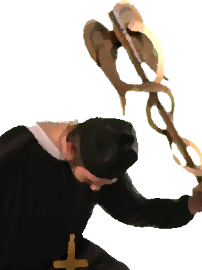
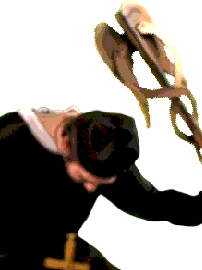
add(display): chara visual

diff --git a/js/game/display/fight/fightDisplay.js b/js/game/display/fight/fightDisplay.js
@@ -1,4 +1,4 @@
-class FightDisplay extends ActivityDisplay { }
+class FightDisplay extends ActivityDisplay {}
 FightDisplay.update = display => {
     var fight = display.game.activity;
 
@@ -82,6 +82,12 @@ FightDisplay.update = display => {
             }
 
             var drawCharacter = player => {
+
+                display.cx.save();
+                if (!player.direction) {
+                    display.flipHorizontally((player.collisionBox.pos.x + player.collisionBox.size.x / 2) * display.zoom);
+                }
+
                 switch (player.action) {
                     case "HIT":
                         display.cx.fillStyle = '#04ff';
@@ -114,7 +120,13 @@ FightDisplay.update = display => {
                         display.cx.fillStyle = '#d3f8b0';
                         break;
                     case "FORWARD_DASH":
-                        display.cx.fillStyle = '#f7ff00';
+                        display.cx.drawImage(display.assets.c00df,
+                            0, 0,
+                            182, 192,
+                            (player.collisionBox.pos.x + player.collisionBox.size.x / 2 - 91) * display.zoom,
+                            -80 + (player.collisionBox.pos.y + player.collisionBox.size.y / 2 - 96) * display.zoom,
+                            182 * display.zoom, 192 * display.zoom
+                        );
                         break;
                     case "BACKWARD_DASH":
                         display.cx.fillStyle = '#ffa4a4';
@@ -129,13 +141,31 @@ FightDisplay.update = display => {
                         display.cx.fillStyle = '#cdff00';
                         break;
                     case "BACKWARD_HIGH":
-                        display.cx.fillStyle = '#7cff00';
+                        display.cx.drawImage(display.assets.c00hb,
+                            91 * Math.floor((display.frame / 8) % 6), 0,
+                            91, 192,
+                            (player.collisionBox.pos.x + player.collisionBox.size.x / 2 - 45) * display.zoom,
+                            -80 + (player.collisionBox.pos.y + player.collisionBox.size.y / 2 - 96) * display.zoom,
+                            91 * display.zoom, 192 * display.zoom
+                        );
                         break;
                     case "NEUTRAL_HIGH":
-                        display.cx.fillStyle = '#00fff0';
+                        display.cx.drawImage(display.assets.c00idle,
+                            91 * Math.floor((display.frame / 8) % 6), 0,
+                            91, 192,
+                            (player.collisionBox.pos.x + player.collisionBox.size.x / 2 - 45) * display.zoom,
+                            -80 + (player.collisionBox.pos.y + player.collisionBox.size.y / 2 - 96) * display.zoom,
+                            91 * display.zoom, 192 * display.zoom
+                        );
                         break;
                     case "FORWARD_HIGH":
-                        display.cx.fillStyle = '#00aaff';
+                        display.cx.drawImage(display.assets.c00hf,
+                            91 * Math.floor((display.frame / 8) % 6), 0,
+                            91, 192,
+                            (player.collisionBox.pos.x + player.collisionBox.size.x / 2 - 45) * display.zoom,
+                            -80 + (player.collisionBox.pos.y + player.collisionBox.size.y / 2 - 96) * display.zoom,
+                            91 * display.zoom, 192 * display.zoom
+                        );
                         break;
                     case "BACKWARD_LOW":
                         display.cx.fillStyle = '#0f00ff';
@@ -153,10 +183,22 @@ FightDisplay.update = display => {
                         display.cx.fillStyle = '#0f6903';
                         break;
                     case "HIGH_A":
-                        display.cx.fillStyle = '#fbff77';
+                        display.cx.drawImage(display.assets.c00ha,
+                            182 * Math.floor((player.frame / 4) % 4), 0,
+                            182, 192,
+                            (player.collisionBox.pos.x + player.collisionBox.size.x / 2 - 91) * display.zoom,
+                            -80 + (player.collisionBox.pos.y + player.collisionBox.size.y / 2 - 96) * display.zoom,
+                            182 * display.zoom, 192 * display.zoom
+                        );
                         break;
                     case "HIGH_B":
-                        display.cx.fillStyle = '#f8bb19';
+                        display.cx.drawImage(display.assets.c00hab,
+                            182 * Math.floor((player.frame / 5) % 6), 0,
+                            182, 192,
+                            (player.collisionBox.pos.x + player.collisionBox.size.x / 2 - 91) * display.zoom,
+                            -80 + (player.collisionBox.pos.y + player.collisionBox.size.y / 2 - 96) * display.zoom,
+                            182 * display.zoom, 192 * display.zoom
+                        );
                         break;
                     case "LOW_A":
                         display.cx.fillStyle = '#73717d';
@@ -165,13 +207,11 @@ FightDisplay.update = display => {
                         display.cx.fillStyle = '#d9ace2';
                         break;
                 }
-                display.cx.fillRect(
-                    player.collisionBox.pos.x * display.zoom, player.collisionBox.pos.y * display.zoom,
-                    player.collisionBox.size.x * display.zoom, player.collisionBox.size.y * display.zoom
-                );
+                
+                display.cx.restore();
             }
 
-            drawCharacter(player);
+            if (player.id === '00') drawCharacter(player);
         });
     }
 

diff --git a/js/game/logic/character/character.js b/js/game/logic/character/character.js
@@ -49,6 +49,7 @@ class Character {
         this.highBFrame = 30;
 
         // boolean run dash ?
+        this.canBackdash = false;
 
         // attack cancels ?
 
@@ -56,9 +57,9 @@ class Character {
         this.jumpSize = new Vector2D(24, 64);
         this.crouchSize = new Vector2D(24, 64);
 
-        this.moveForwardSpeed = 2;
+        this.moveForwardSpeed = 1;
         this.moveBackwardSpeed = -2;
-        this.forwardDashSpeed = 6;
+        this.forwardDashSpeed = 10;
         this.backDashSpeed = -6;
 
         this.forwardJumpSpeed = 4;
@@ -308,11 +309,13 @@ class Character {
                 return "FORWARD_DASH";
             } else if (inputs.left && this.direction && (this.action === "BACKWARD_DASH" || this.action === "NEUTRAL_HIGH" && inputList.length > 2 &&
                     !inputList[inputList.length - 2].inputs.down && !inputList[inputList.length - 2].inputs.up && !inputList[inputList.length - 2].inputs.a &&
-                    !inputList[inputList.length - 2].inputs.b && inputList[inputList.length - 2].frames < 8 && inputList[inputList.length - 3].inputs.left)) {
+                    !inputList[inputList.length - 2].inputs.b && inputList[inputList.length - 2].frames < 8 && inputList[inputList.length - 3].inputs.left) &&
+                    this.canBackdash) {
                 return "BACKWARD_DASH";
             } else if (inputs.right && !this.direction && (this.action === "BACKWARD_DASH" || this.action === "NEUTRAL_HIGH" && inputList.length > 2 &&
                     !inputList[inputList.length - 2].inputs.down && !inputList[inputList.length - 2].inputs.up && !inputList[inputList.length - 2].inputs.a &&
-                    !inputList[inputList.length - 2].inputs.b && inputList[inputList.length - 2].frames < 8 && inputList[inputList.length - 3].inputs.right)) {
+                    !inputList[inputList.length - 2].inputs.b && inputList[inputList.length - 2].frames < 8 && inputList[inputList.length - 3].inputs.right) &&
+                    this.canBackdash) {
                 return "BACKWARD_DASH";
             } else if ((inputs.right && this.direction || inputs.left && !this.direction) && this.GROUND_ACTIONS.includes(this.action) && !this.DASH_ACTIONS.includes(this.action)) {
                 return "FORWARD_HIGH";

diff --git a/js/game/display/assets.js b/js/game/display/assets.js
@@ -41,6 +41,18 @@ class Assets {
         this.cm00.src = 'img/character/cm00.png';
         this.cn00 = document.createElement('img');
         this.cn00.src = 'img/character/cn00.png';
+        this.c00idle = document.createElement('img');
+        this.c00idle.src = 'img/character/c00idle.png';
+        this.c00hf = document.createElement('img');
+        this.c00hf.src = 'img/character/c00hf.png';
+        this.c00hb = document.createElement('img');
+        this.c00hb.src = 'img/character/c00hb.png';
+        this.c00df = document.createElement('img');
+        this.c00df.src = 'img/character/c00df.png';
+        this.c00ha = document.createElement('img');
+        this.c00ha.src = 'img/character/c00ha.png';
+        this.c00hab = document.createElement('img');
+        this.c00hab.src = 'img/character/c00hab.png';
 
         this.ci01 = document.createElement('img');
         this.ci01.src = 'img/character/ci01.png';
